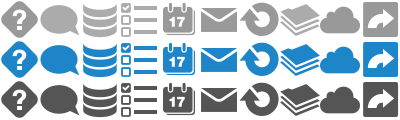
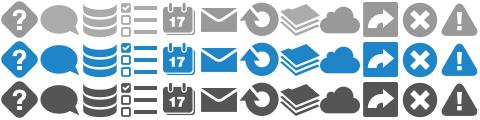
Correct ions for testing sandbox performed actions.

diff --git a/app/assets/stylesheets/application.scss b/app/assets/stylesheets/application.scss
@@ -651,19 +651,23 @@ input:-moz-placeholder { font-style: italic; }
     }
 
     &[ng-class="update"] i {
-      @extend .i40-loop;
-    }
-
-    &[ng-class="invalid_value"] i {
-      @extend .i40-condition;
+      @extend .i40-intdata;
     }
 
     &[ng-class="info"] i {
       @extend .i40-rarrow;
     }
 
+    &[ng-class="invalid_value"] i {
+      @extend .i40-invalid;
+    }
+
     &[ng-class="error"] i {
-      @extend .i40-loop;
+      @extend .i40-error;
+    }
+
+    &[ng-class="warning"] i {
+      @extend .i40-error;
     }
     &:first-child {
       background: none;
@@ -714,3 +718,5 @@ input:-moz-placeholder { font-style: italic; }
 .i40-group              { background-position: -280px    0; }
 .i40-extdata            { background-position: -320px    0; }
 .i40-rarrow             { background-position: -360px    0; }
+.i40-error              { background-position: -400px    0; }
+.i40-invalid            { background-position: -440px    0; }
